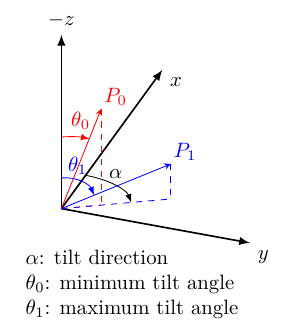
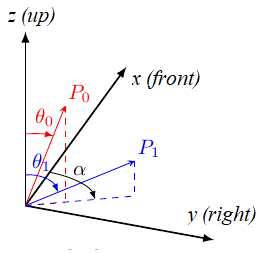
Improve tilt servo stuff

diff --git a/en/config/actuators.md b/en/config/actuators.md
@@ -57,18 +57,10 @@ Most motor properties apply to all frames.
 A few properties apply to specific frames.
 For example, as `Tilted-by` and `axis` are only relevant for [Tiltrotor VTOL](#motor-geometry-vtol-tiltrotor) and [Standard VTOL](#motor-geometry-standard-vtol) vehicles, respectively.
 
-Multicopter airframe provides a diagram in QGC showing the X, Y positions, which is useful for checking whether the motors configuration is correct. To get a feeling for the motor layout for VTOL and other vehicles see the [Airframe Reference](../airframes/airframe_reference.md).
+The geometry configuration for multicopter airframes provides a diagram showing the relative x,y positions for each of the motors.
+See the [Airframe Reference](../airframes/airframe_reference.md) for an broad understanding of the motor positions for other frames.
 
 Core geometry concepts and the configuration for a number of different frames are provided in the following sections.
-
-
-#### Motor Position Coordinate System
-
-The coordinate system for motor positions is FRD (in body frame), where the X axis points forward, the Y axis to the right and the Z axis down.
-
-The **origin is the vehicle's centre-of-gravity (COG)**, and **NOT** the autopilot location).
-
-![Actuators CG reference diagram](../../assets/config/actuators/quadcopter_actuators_cg_reference.png)
 
 
 #### Motor Geometry: Multicopter
@@ -134,6 +126,15 @@ Once again these motors will generally have the same kinds of properties as show
 
 For example, a fixed-wing vehicle may just have a single pusher moter, while a rover with differential steering will have a motor for throttle and for steering.
 
+
+#### Motor Position Coordinate System
+
+The coordinate system for motor positions is FRD (in body frame), where the X axis points forward, the Y axis to the right and the Z axis down.
+
+The **origin is the vehicle's centre-of-gravity (COG)**, and **NOT** the autopilot location).
+
+![Actuators CG reference diagram](../../assets/config/actuators/quadcopter_actuators_cg_reference.png)
+
 #### Bidirectional Motors
 
 Some vehicles may use bidirectional motors (i.e. motor supports spinning in both directions)
@@ -197,10 +198,10 @@ The example below shows the tilt servo setup for the [tiltrotor motor geometry s
 
 The values that can be set are:
 - `Tilt servos`: The number of servos (tiltable motors).
-- `Angle at min tilt`: [Maximum tilt angle](#tilt-servo-coordinate-system), relative to the z axis (degrees).
-- `Angle at max tilt`: [Minimum tilt angle](#tilt-servo-coordinate-system), relative to the z-axis (degrees).
-- `Tilt direction`: `Towards front` (Positive X direction) or `Towards right` (Positive Y direction).
-- `Use for control`: [Tilt server used for yaw/pitch](#tilt-servos-for-yaw-pitch-control)
+- `Angle at min tilt`: [Maximum tilt angle](#tilt-servo-coordinate-system) in degrees, relative to the z axis.
+- `Angle at max tilt`: [Minimum tilt angle](#tilt-servo-coordinate-system) in degrees, relative to the z-axis.
+- `Tilt direction`: `Towards front` (positive x direction) or `Towards right` (positive y direction).
+- `Use for control`: [Tilt servo used for yaw/pitch](#tilt-servos-for-yaw-pitch-control)
   - `None`: Torque control is not used.
   - `Yaw`: Tilt servos used to control yaw.
   - `Pitch`: Tilt servos used to control pitch.
@@ -209,24 +210,31 @@ The values that can be set are:
 
 #### Tilt Servo Coordinate System
 
-The coordinate system for tilt rotor angles is shown below:
+The coordinate system for tilt rotor angles is shown below.
+The reference direction for tilt angles is straight upwards (0 degrees).
+Tilt angles towards the front or right of the vehicle are positive, and towards the back or to the left are negative.
 
 ![Tilt Axis](../../assets/config/actuators/tilt_axis.png)
 
-The reference direction is upwards.
-For example:
-- a servo pointing upwards has an angle of zero
-- a servo pointing forwards or right would have an angle of 90 degrees.
-- A servo pointing backwards or left would have an angle of -90 degrees.
+The `Angle at min tilt` and `Angle at max tilt` indicate the range of movement for the tilt servo.
+The minimum tilt is the smaller _numerical value_ (not absolute) of the two angles.
 
-The `Angle at min tilt` and `Angle at max tilt` indicate the ranges of movement for the tilt server.
-The minimum is the smaller _numerical value_ (not absolute)  of the two angles.
-For example:
-- A servo that moves between the upright and forward postions would have `min=0` and `max=90`. 
-- A servo that moves symmetrically around the upright position might have `min=-45` and `max=45`
-- A servo that moves between the upright and backward positions would have `min=-90` and `max=0`.
+If the max/min tilt vectors are **P<sub>0</sub>** and **P<sub>1</sub>** as shown above, both tilt angles are positive but **θ<sub>0</sub>** is smaller:
+- `Angle at min tilt` = **θ<sub>0</sub>**
+- `Angle at max tilt` = **θ<sub>1</sub>**
 
-The `Tilt direction` indicates whether the servo tilts in the plane towards the `Front` or `Right` of the vehicle of the vehicle (at the moment the assumption is that it can only tilt in these directions).
+:::note
+If the diagram was mirrored so that **P<sub>0</sub>** and **P<sub>1</sub>** were tilting into the -x, -y quadrant, then both the tilt angles would be negative.
+Because **θ<sub>1</sub>** would more negative (smaller) than **θ<sub>0</sub>**, it would be the `Angle at min tilt`.
+
+Similarly, a servo that moves:
+- between the upright and forward postions would have `min=0` and `max=90`. 
+- symmetrically 45 degrees around the upright position would have `min=-45` and `max=45`
+- between the upright and backward positions would have `min=-90` and `max=0`.
+:::
+
+The `Tilt direction` indicates whether the servo tilts in the plane towards the `Front` or `Right` of the vehicle.
+On the diagram this would be represented by **α** that can only take values of 0 (front) or 90 (right).
 
 #### Tilt Servos for Yaw/Pitch Control
 
